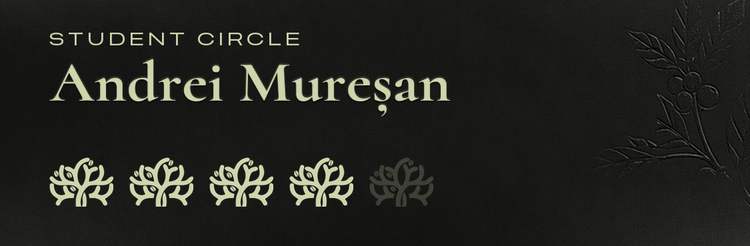
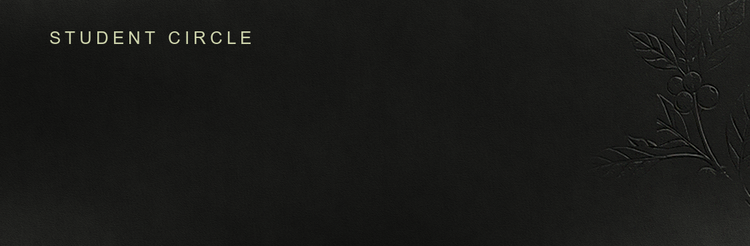
Replace demo Apple Wallet strips with clean texture backgrounds and render member name via native PassKit primaryFields

Changed region(s): [[0.0613, 0.626, 0.5827, 0.8537], [0.0613, 0.2276, 0.6133, 0.4553], [0.0613, 0.1138, 0.3987, 0.1992]]

diff --git a/src/lib/wallet/apple.ts b/src/lib/wallet/apple.ts
@@ -195,7 +195,13 @@ export async function buildApplePass(
           value: `${stampsCount} / ${totalStamps}`,
         },
       ],
-      primaryFields: [],
+      primaryFields: [
+        {
+          key: "name",
+          label: "MEMBRU",
+          value: member.name,
+        },
+      ],
       secondaryFields: [
         {
           key: "reward",
